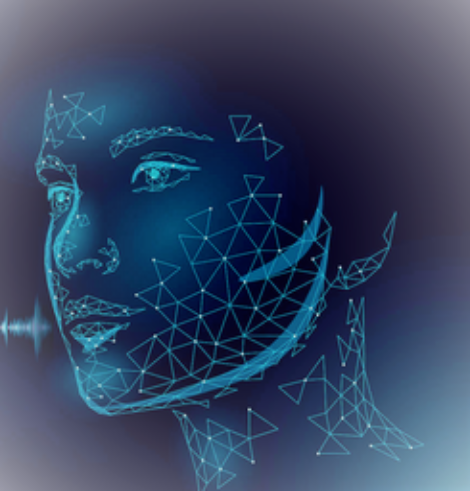
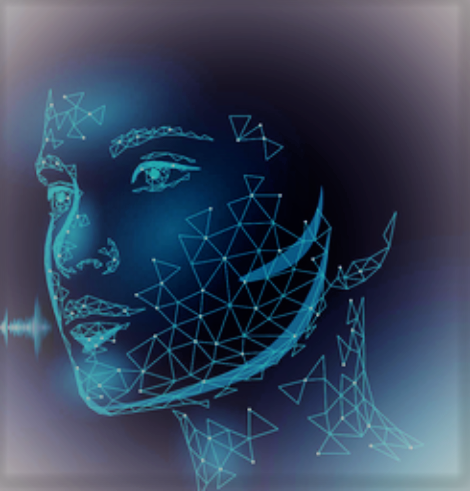
Fixed some bugs and enhanced the image

diff --git a/app.py b/app.py
@@ -1,8 +1,6 @@
 from tkinter import *
 from main import get_response
-BG_GRAY = "#ABB2B9"
-BG_COLOR = "#17202A"
-TEXT_COLOR = "#EAECEE"
+
 
 FONT = "ComicSans 12"
 FONT_BOLD = "ComicSans 14 bold"
@@ -16,16 +14,9 @@ photo=PhotoImage(file='2.png')
 splash_label = Label(splash_root, text="Splash Screen", font=18,image=photo)
 splash_label.pack()
 
-
-
-
 def main():
     # destory splash window
     splash_root.destroy()
-
-
-
-
 
 # Set Interval
 splash_root.after(5000, main)
@@ -45,7 +36,7 @@ class ChatApplication:
     def _setup_main_window(self):
         self.window.title("Chat")
         self.window.resizable(width=False, height=False)
-        self.window.configure(width=470, height=550, bg=BG_COLOR)
+        self.window.configure(width=470, height=550, bg="#17202A")
 
         #headlabel
         head_label = Label(self.window, bg="gray20", fg="lawn green", text="Virtual Chat Assistent", font=FONT, pady=10)
@@ -78,9 +69,11 @@ class ChatApplication:
         #send button
         send_button = Button(bottom_label, text="Send", font=FONT_BOLD, width=25, bg="grey11",fg= "lawn green", command= lambda: self._on_enter_pressed(None))
         send_button.place(relx=.77, rely=0.0185, relheight=0.04, relwidth= 0.22)
+
     def _on_enter_pressed(self, event):
         msg= self.msg_entry.get()#this gets the input text as a string
         self._insert_message(msg, "You")
+
     def _insert_message(self, msg, sender):
         if not msg:
             return

diff --git a/main.py b/main.py
@@ -17,8 +17,7 @@ def get_response(msg):#~Fixed
         return "I'm fine!!!"
     elif msg.lower()[0] == "h" and msg.lower().split(" ")[0]!="hear":
         return ab.greeting()
-    elif "what" in msg.lower().split()[0] and msg[-1] == "?":
-        return ab.powers()
+
     # Performing the activities
 
     if choice == 1:#Opening website
